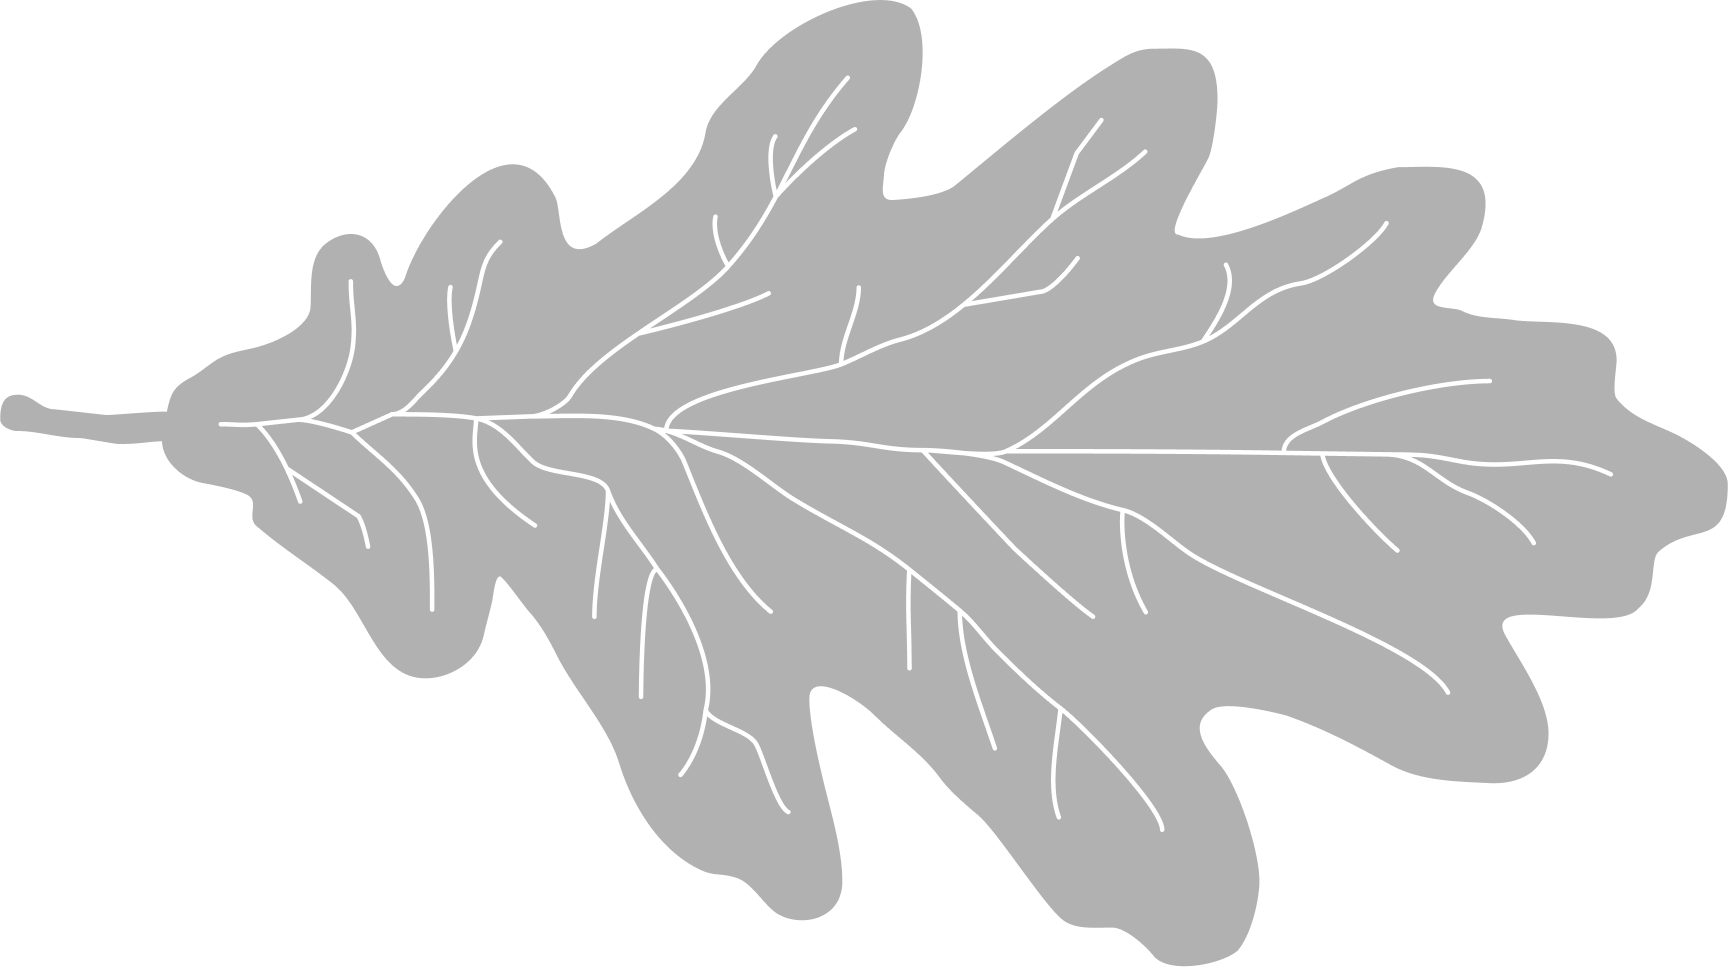
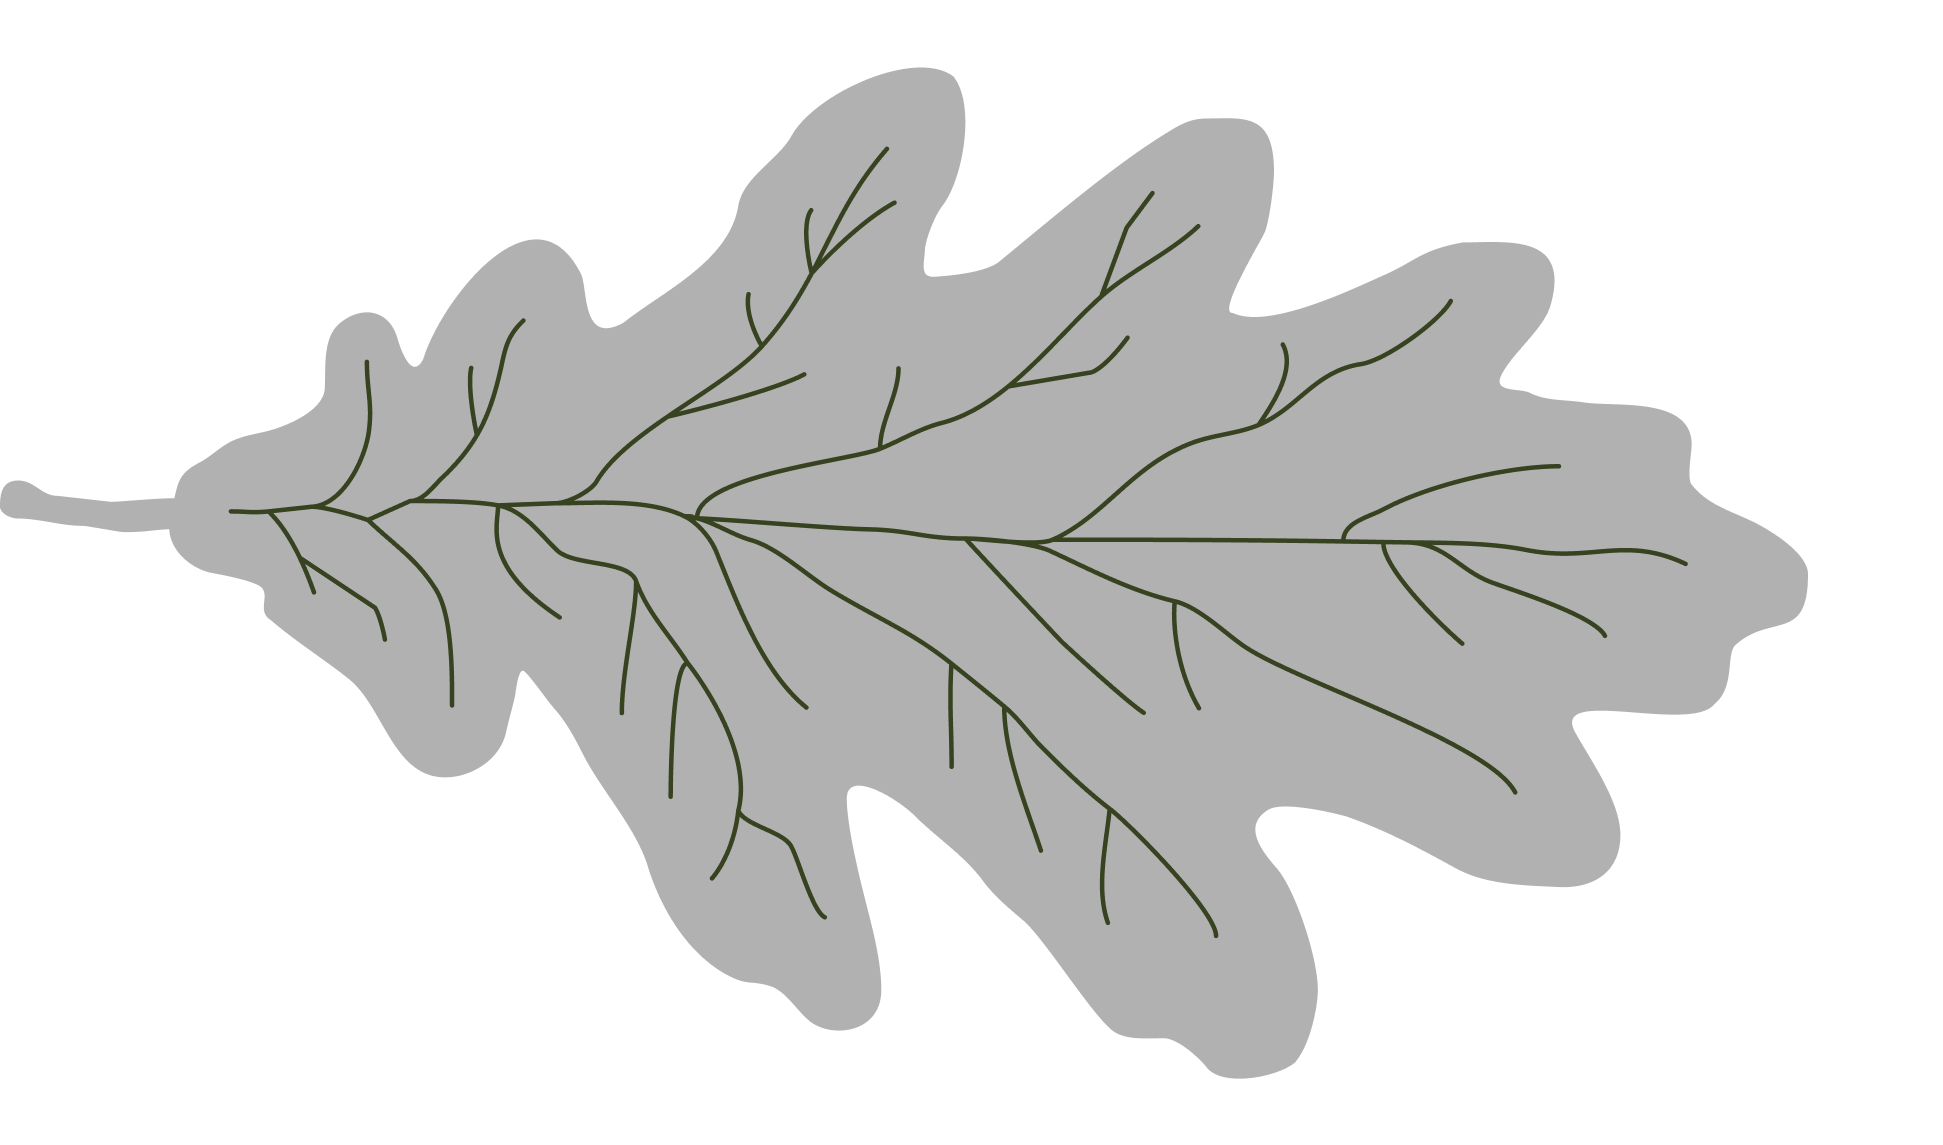
create nav component

diff --git a/frontend/components/nav.jsx b/frontend/components/nav.jsx
@@ -1,0 +1,178 @@
+import { useEffect, useState } from "react";
+import styled from "styled-components";
+
+const NavContainer = styled.nav`
+  z-index: 100;
+  display: flex;
+  justify-content: space-between;
+  padding: 16px;
+  width: 100%;
+  max-width: 1000px;
+  position: fixed;
+  top: 0;
+  left: 50%;
+  backdrop-filter: blur(5px);
+  background-color: #37422080;
+  opacity: ${({ isVisible }) => (isVisible ? 1 : 0)};
+  transform: ${({ isVisible }) => (isVisible ? "translate(-50%, 0)" : "translate(-50%, -20px)")};
+  transition: opacity 0.5s ease-in-out, transform 0.5s ease-in-out;
+
+  @media (max-width: 768px) {
+    justify-content: space-between;
+    padding: 16px;
+  }
+`;
+
+const Logo = styled.img`
+  width: 150px;
+  height: auto;
+`;
+
+const Hamburger = styled.div`
+  display: none;
+  flex-direction: column;
+  justify-content: center;
+  cursor: pointer;
+
+  span {
+    width: 25px;
+    height: 3px;
+    border-radius: 1.5px;
+    background-color: var(--foreground);
+    margin: 4px;
+    transition: 0.3s;
+  }
+
+  @media (max-width: 768px) {
+    display: flex;
+  }
+`;
+
+const MobileMenu = styled.div`
+  display: flex;
+  flex-direction: column;
+  padding: 24px;
+  position: fixed;
+  top: 0;
+  left: 0;
+  width: 100%;
+  height: 100%;
+  background-color: var(--background);
+  opacity: ${({ isOpen }) => (isOpen ? 1 : 0)};
+  transform: ${({ isOpen }) => (isOpen ? "translateY(0)" : "translateY(-100%)")};
+  transition: opacity 0.5s ease-in-out, transform 0.5s ease-in-out;
+  z-index: 999; /* Make sure it's above everything else */
+  
+  a {
+    font-family: var(--font-averia);
+    color: var(--foreground);
+    font-size: 24px;
+    text-decoration: none;
+  }
+
+  @media (min-width: 769px) {
+    display: none;
+  }
+`;
+
+const CloseButton = styled.button`
+  position: absolute;
+  top: 24px;
+  right: 24px;
+  background: none;
+  border: none;
+  color: var(--foreground);
+  z-index: 2;
+  width: 18px;
+  cursor: pointer;
+  img {
+    width: 100%;
+  }
+`;
+
+const LinkContainer = styled.div`
+  display: flex;
+  gap: 24px;
+
+  a {
+    font-family: var(--font-averia);
+    color: inherit;
+  }
+
+  @media (max-width: 768px) {
+    display: none;
+  }
+`;
+
+const BottomContainer = styled.div`
+  position: relative;
+  flex: 1;
+  display: flex;
+  flex-direction: column;
+  align-items: flex-end;
+  justify-content: flex-end;
+`
+
+const Decal = styled.img`
+  position: absolute;
+  bottom: 0;
+  left: 0;
+  height: 95%;
+`
+
+const Nav = () => {
+  const [isNavVisible, setIsNavVisible] = useState(false);
+  const [isMobileMenuOpen, setIsMobileMenuOpen] = useState(false);
+
+  useEffect(() => {
+    const handleScroll = () => {
+      if (window.scrollY > 0) {
+        setIsNavVisible(true);
+      } else {
+        setIsNavVisible(false);
+      }
+    };
+
+    window.addEventListener("scroll", handleScroll);
+    handleScroll(); // To ensure the nav visibility is updated if the page loads scrolled down
+
+    return () => {
+      window.removeEventListener("scroll", handleScroll);
+    };
+  }, []);
+
+  return (
+    <>
+      <NavContainer isVisible={isNavVisible}>
+        <a href="/"><Logo src="/images/logo.svg" alt="Logo" /></a>
+        <LinkContainer>
+          <a href="/about">About</a>
+          <a href="/services">Services</a>
+          <a href="/events">Events</a>
+          <a href="/contact">Contact</a>
+        </LinkContainer>
+        <Hamburger onClick={() => setIsMobileMenuOpen(!isMobileMenuOpen)}>
+          <span></span>
+          <span></span>
+          <span></span>
+        </Hamburger>
+      </NavContainer>
+
+      <MobileMenu isOpen={isMobileMenuOpen}>
+        <CloseButton onClick={() => setIsMobileMenuOpen(false)}><img src="/images/close.svg" /></CloseButton>
+        <a href="/"><Logo src="/images/logo.svg" alt="Logo" /></a>
+        <a href="/about">About</a>
+        <a href="/services">Services</a>
+        <a href="/events">Events</a>
+        <a href="/contact">Contact</a>
+        <BottomContainer>
+          <Decal src="/images/lavender-vertical.png" alt="lav" />
+          <p>[phone redacted]</p>
+          <a href="/contact"><p>[email redacted]</p></a>
+        </BottomContainer>
+      </MobileMenu>
+    </>
+  );
+};
+
+export default Nav;

diff --git a/frontend/styles/globals.css b/frontend/styles/globals.css
@@ -61,8 +61,6 @@ p, a, button {
 a {
   color: var(--accent);
   text-decoration: none;
-  padding-bottom: 6px;
-  border-bottom: 1px solid var(--accent);
 }
 
 button {
@@ -83,4 +81,26 @@ button:hover {
 
 section {
   margin: 64px auto;
+  padding: 0 24px;
+}
+
+@media (max-width: 768px) {
+  h1 {
+    font-size: 64px;
+  }
+  h2 {
+    font-size: 48px;
+  }
+  h3 {
+    font-size: 32px;
+  }
+  h4 {
+    font-size: 24px;
+  }
+  h5 {
+    font-size: 18px;
+  }
+  section {
+    margin: 40px auto;
+  }
 }

diff --git a/frontend/pages/[slug].jsx b/frontend/pages/[slug].jsx
@@ -1,11 +1,9 @@
 import groq from 'groq';
 import client from '../client';
-import HomeSection from '../sections/homeSection';
-import TitleSection from '../sections/titleSection';
-import TextSection from '../sections/textSection';
-import Cta from '../sections/cta';
-import Footer from '../sections/footer';
-import Practitioner from '../sections/practitionerSection';
+import HomeSection from '../components/homeSection';
+import TitleSection from '../components/titleSection';
+import TextSection from '../components/textSection';
+import Practitioner from '../components/practitionerSection';
 
 const Page = ({ page }) => {
   if (!page) {
@@ -46,8 +44,6 @@ const Page = ({ page }) => {
           return null;
         })}
       </article>
-      <Cta />
-      <Footer />
     </div>
   );
 };

diff --git a/frontend/pages/_app.jsx b/frontend/pages/_app.jsx
@@ -1,6 +1,9 @@
 import '../styles/globals.css'
 import { Averia_Serif_Libre, Montserrat } from 'next/font/google'
 import useScrollFade from '../state/hooks/useScrollFade';
+import Cta from "../components/cta";
+import Footer from "../components/footer";
+import Nav from '../components/nav';
 
 export const averia = Averia_Serif_Libre({
   subsets: ['latin'],
@@ -20,7 +23,10 @@ export default function App({ Component, pageProps }) {
   useScrollFade();
   return (
     <main className={`${averia.variable} ${montserrat.variable}`}>
+      <Nav />
       <Component {...pageProps} />
+      <Cta />
+      <Footer />
     </main>
   )
 }